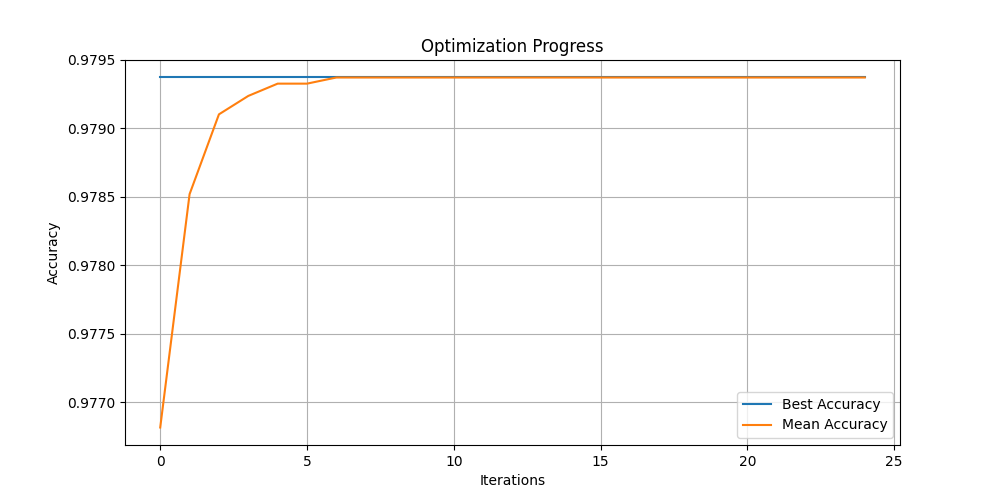
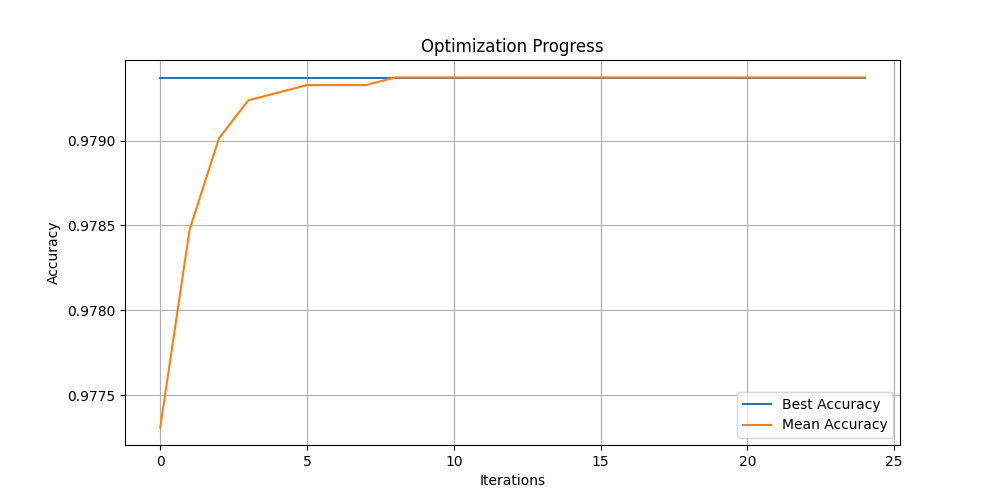
Update code with new evaluation metrics (Precision, Recall, F1, ROC-AUC) and new ROC curve plot

diff --git a/FireFly.py b/FireFly.py
@@ -1,9 +1,11 @@
 import pandas as pd
 import numpy as np
+import matplotlib.pyplot as plt
 from sklearn.model_selection import train_test_split
 from sklearn.feature_extraction.text import TfidfVectorizer
+from sklearn.metrics import confusion_matrix, ConfusionMatrixDisplay
 from sklearn.linear_model import LogisticRegression
-from sklearn.metrics import accuracy_score
+from sklearn.metrics import accuracy_score, precision_score, recall_score, f1_score, roc_auc_score, roc_curve
 import matplotlib.pyplot as plt
 import os
 
@@ -29,7 +31,9 @@ def main():
     X_train = vectorizer.fit_transform(X_train_text)
     X_test = vectorizer.transform(X_test_text)
 
-    # Baseline
+    # ======================================================
+    # STEP 2: BASELINE
+    # ======================================================
     base_model = LogisticRegression(C=1.0)
     base_model.fit(X_train, y_train)
     baseline_acc = accuracy_score(y_test, base_model.predict(X_test))
@@ -43,13 +47,13 @@ def main():
     gamma = 0.3
     alpha = 0.25
 
-    num_fireflies = 20
+    num_fireflies = 20 
     max_iterations = 25
 
     min_C, max_C = 0.01, 10
 
     # ======================================================
-    # STEP 2: FITNESS
+    # STEP 3: FITNESS
     # ======================================================
     def fitness(c):
         c = max(0.001, c)
@@ -58,7 +62,7 @@ def main():
         return accuracy_score(y_test, model.predict(X_test))
 
     # ======================================================
-    # STEP 3: INITIALIZE FIREFLIES
+    # STEP 4: INITIALIZE FIREFLIES
     # ======================================================
     positions = np.random.uniform(min_C, max_C, num_fireflies)
     brightness = np.zeros(num_fireflies)
@@ -106,12 +110,35 @@ def main():
     # ======================================================
     # FINAL RESULT
     # ======================================================
+    
+    #extracting best result 
+
     best_idx = np.argmax(brightness)
+    best_C = positions[best_idx]
+
+    # Train final optimized model
+    final_model = LogisticRegression(C=best_C, max_iter=200)
+    final_model.fit(X_train, y_train)
+
+    final_acc = accuracy_score(y_test, final_model.predict(X_test))
+
+    # Calculate additional metrics
+    y_pred = final_model.predict(X_test)
+    y_prob = final_model.predict_proba(X_test)[:, 1] # Probabilities for the positive class (Spam)
+
+    precision = precision_score(y_test, y_pred)
+    recall = recall_score(y_test, y_pred)
+    f1 = f1_score(y_test, y_pred)
+    roc_auc = roc_auc_score(y_test, y_prob)
 
     print("\n========== FINAL RESULT ==========")
     print(f"Baseline Accuracy : {baseline_acc:.4f}")
-    print(f"Optimized Accuracy: {brightness[best_idx]:.4f}")
-    print(f"Best C Value      : {positions[best_idx]:.4f}")
+    print(f"Optimized Accuracy: {final_acc:.4f}")
+    print(f"Best C Value      : {best_C:.4f}")
+    print(f"Precision         : {precision:.4f}")
+    print(f"Recall            : {recall:.4f}")
+    print(f"F1-Score          : {f1:.4f}")
+    print(f"ROC-AUC Score     : {roc_auc:.4f}")
     print("=================================")
 
     # ======================================================
@@ -169,26 +196,32 @@ def main():
     plt.ylabel("Count")
     plt.grid()
     plt.savefig("plot5_distribution.png")
-
     print("\n🔥 All plots generated successfully!")
 
-from sklearn.metrics import confusion_matrix, ConfusionMatrixDisplay
-import matplotlib.pyplot as plt
-
-def plot_confusion_matrix(model, X_test, y_test):
-    y_pred = model.predict(X_test)
-    
+    # 6. Confusion Matrix 
     cm = confusion_matrix(y_test, y_pred)
-    
-    disp = ConfusionMatrixDisplay(confusion_matrix=cm)
+
+    disp = ConfusionMatrixDisplay(confusion_matrix=cm, display_labels=["Ham", "Spam"])
     disp.plot()
-    
     plt.title("Confusion Matrix")
     plt.grid(False)
     plt.savefig("plot6_confusion_matrix.png")
-    plt.show()
     
-    return cm
+    # 7. ROC Curve
+    fpr, tpr, thresholds = roc_curve(y_test, y_prob)
+    plt.figure(figsize=(8,5))
+    plt.plot(fpr, tpr, color='blue', label=f'ROC Curve (AUC = {roc_auc:.4f})')
+    plt.plot([0, 1], [0, 1], color='red', linestyle='--', label='Random Guessing')
+    plt.title("Receiver Operating Characteristic (ROC) Curve")
+    plt.xlabel("False Positive Rate (FPR)")
+    plt.ylabel("True Positive Rate (TPR)")
+    plt.legend()
+    plt.grid()
+    plt.savefig("plot7_roc_curve.png")
+
+    plt.show()
+
+    print("\nConfusion Matrix:\n", cm)
 
     
 if __name__ == "__main__":
